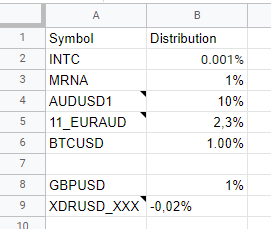
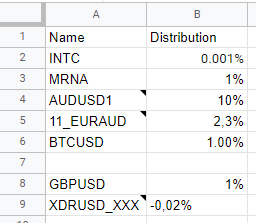
TTALGO-2024: Small fixes for READMe have been added

diff --git a/100YearPortfolio/README.md b/100YearPortfolio/README.md
@@ -6,7 +6,7 @@ Based on the stock distribution in the *Portfolio* sheet, this bot open and chan
 
 ## Description
 The bot opens/closes Limit orders so that total amount of money invested by Symbol (orders + positions) is equal to the percentage of the account balance in *Portfolio* every N minutes.
-Is the equity loss is critical the bot will be stopped.
+If the equity loss is critical the bot will be stopped.
 
 ## Required Links
 **For bot running you have to create Google Sheet with Configuration.**
@@ -59,7 +59,7 @@ A time after which a bot refreshes *Status*. Integer parameter. Should be greate
 
 ## Portfolio page
 
-Current page consists stock distribution and has 3 columns: Name and Distribution. Also Name column can have Notes with additional settings.
+Current page consists stock distribution and has 2 columns: Name and Distribution. Also Name column can have Notes with additional settings.
 
 
 ### Main settings
@@ -70,7 +70,7 @@ Current page consists stock distribution and has 3 columns: Name and Distributio
 A name of the symbol, which will be used to open orders. String value.
 
 #### **Distribution**
-A percentage of money from the account balance for opening orders. Double percent parameter (must end with %). If value is positive value than positions side is Buy else Sell. **Total sum absolute values of column should be less than 100%**
+A percentage of money from the account balance for opening orders. Double percent parameter (must end with %). If value is positive than positions side is Buy else Sell. **Total sum absolute values of column should be less or equal 100%**
 
 ### Additional settings (optional, **available only with cred file**)
 
@@ -79,10 +79,10 @@ A percentage of money from the account balance for opening orders. Double percen
 Additional parameters should be written as Note for the first cell.
 
 #### **Symbol**
-This is the symbol name on a server side. Used to open orders. If not specified the value **Name** is used by default. String value.
+This is the symbol name on a server side. Used to open orders. If the symbol isn't specified, the value **Name** is used by default. String value.
 
 #### **MaxLotSize**
-Upper limit for a order volume. Positive double value. Default value is  **Symbol.MaxTradeVolume**
+Upper limit for an order volume. Positive double value. Default value is  **Symbol.MaxTradeVolume**
 
 ## Filling rules
 - The order of records isn't important
